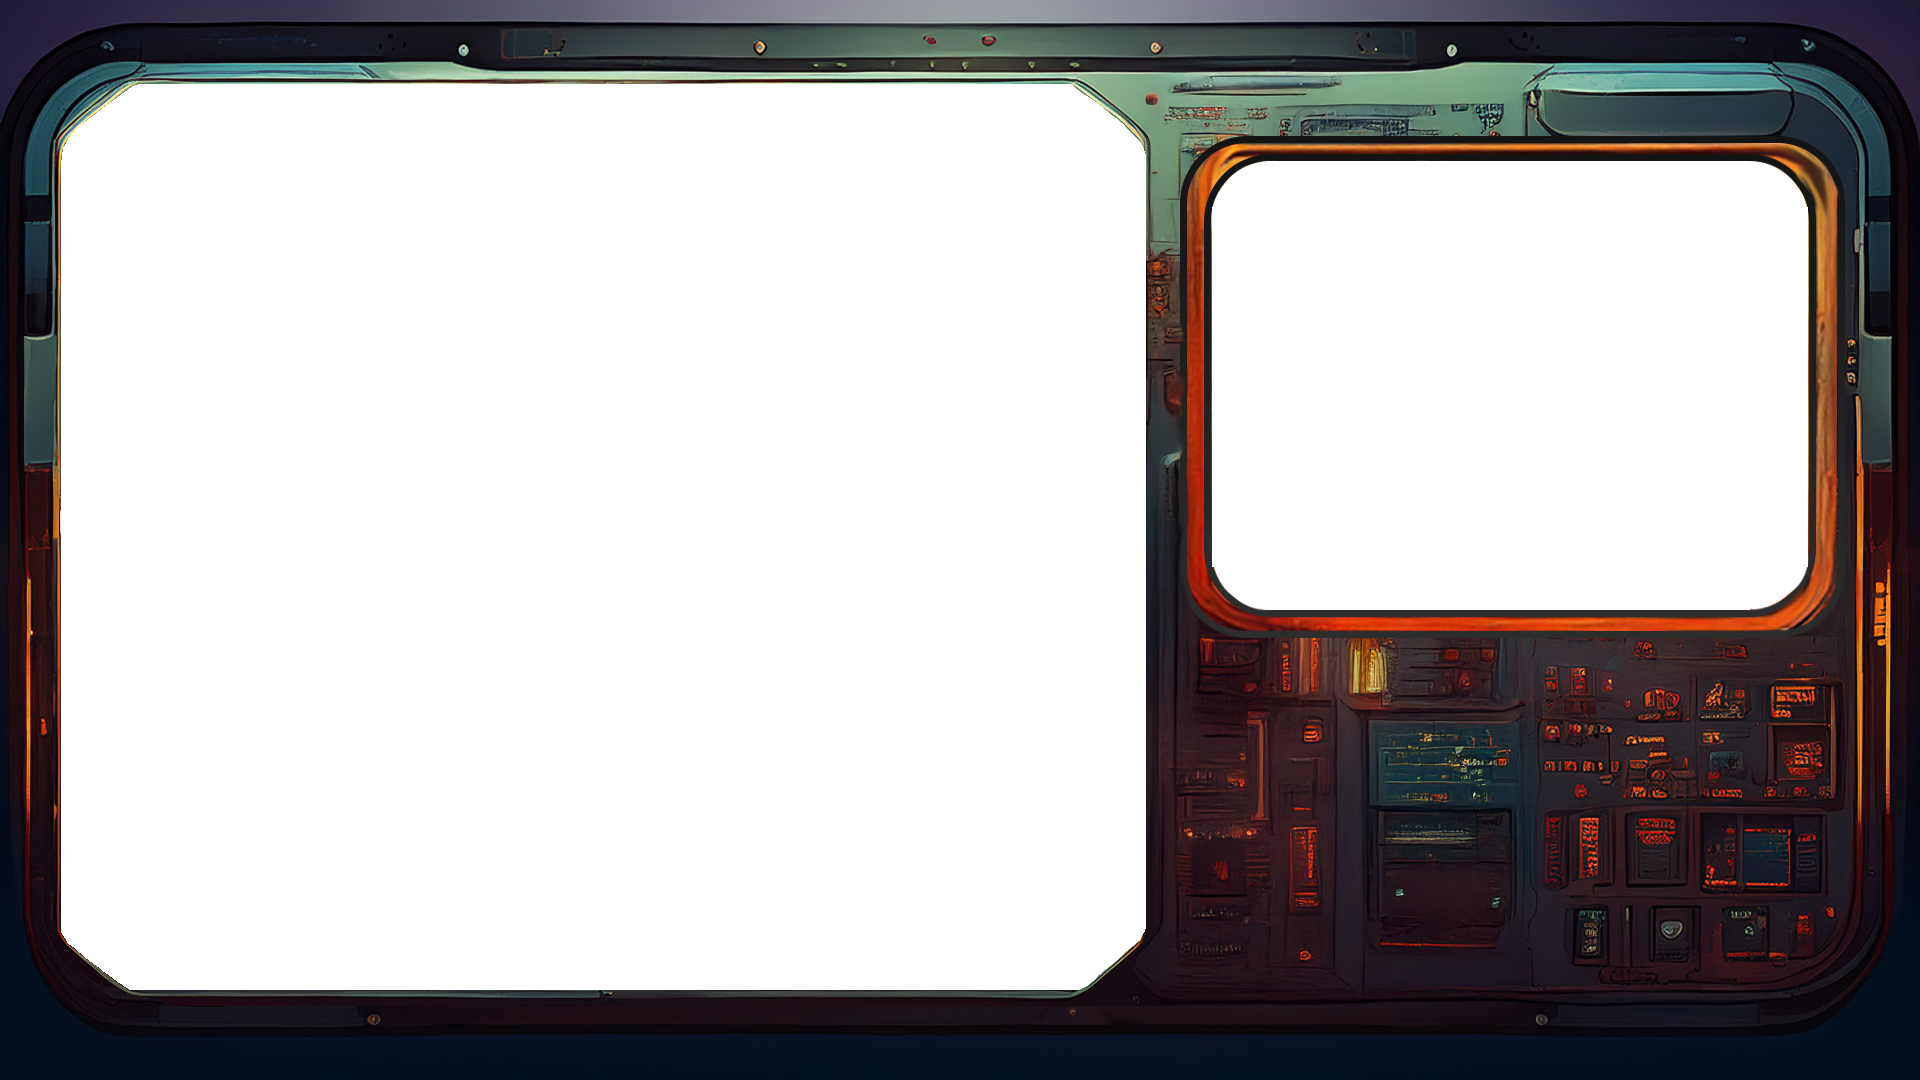
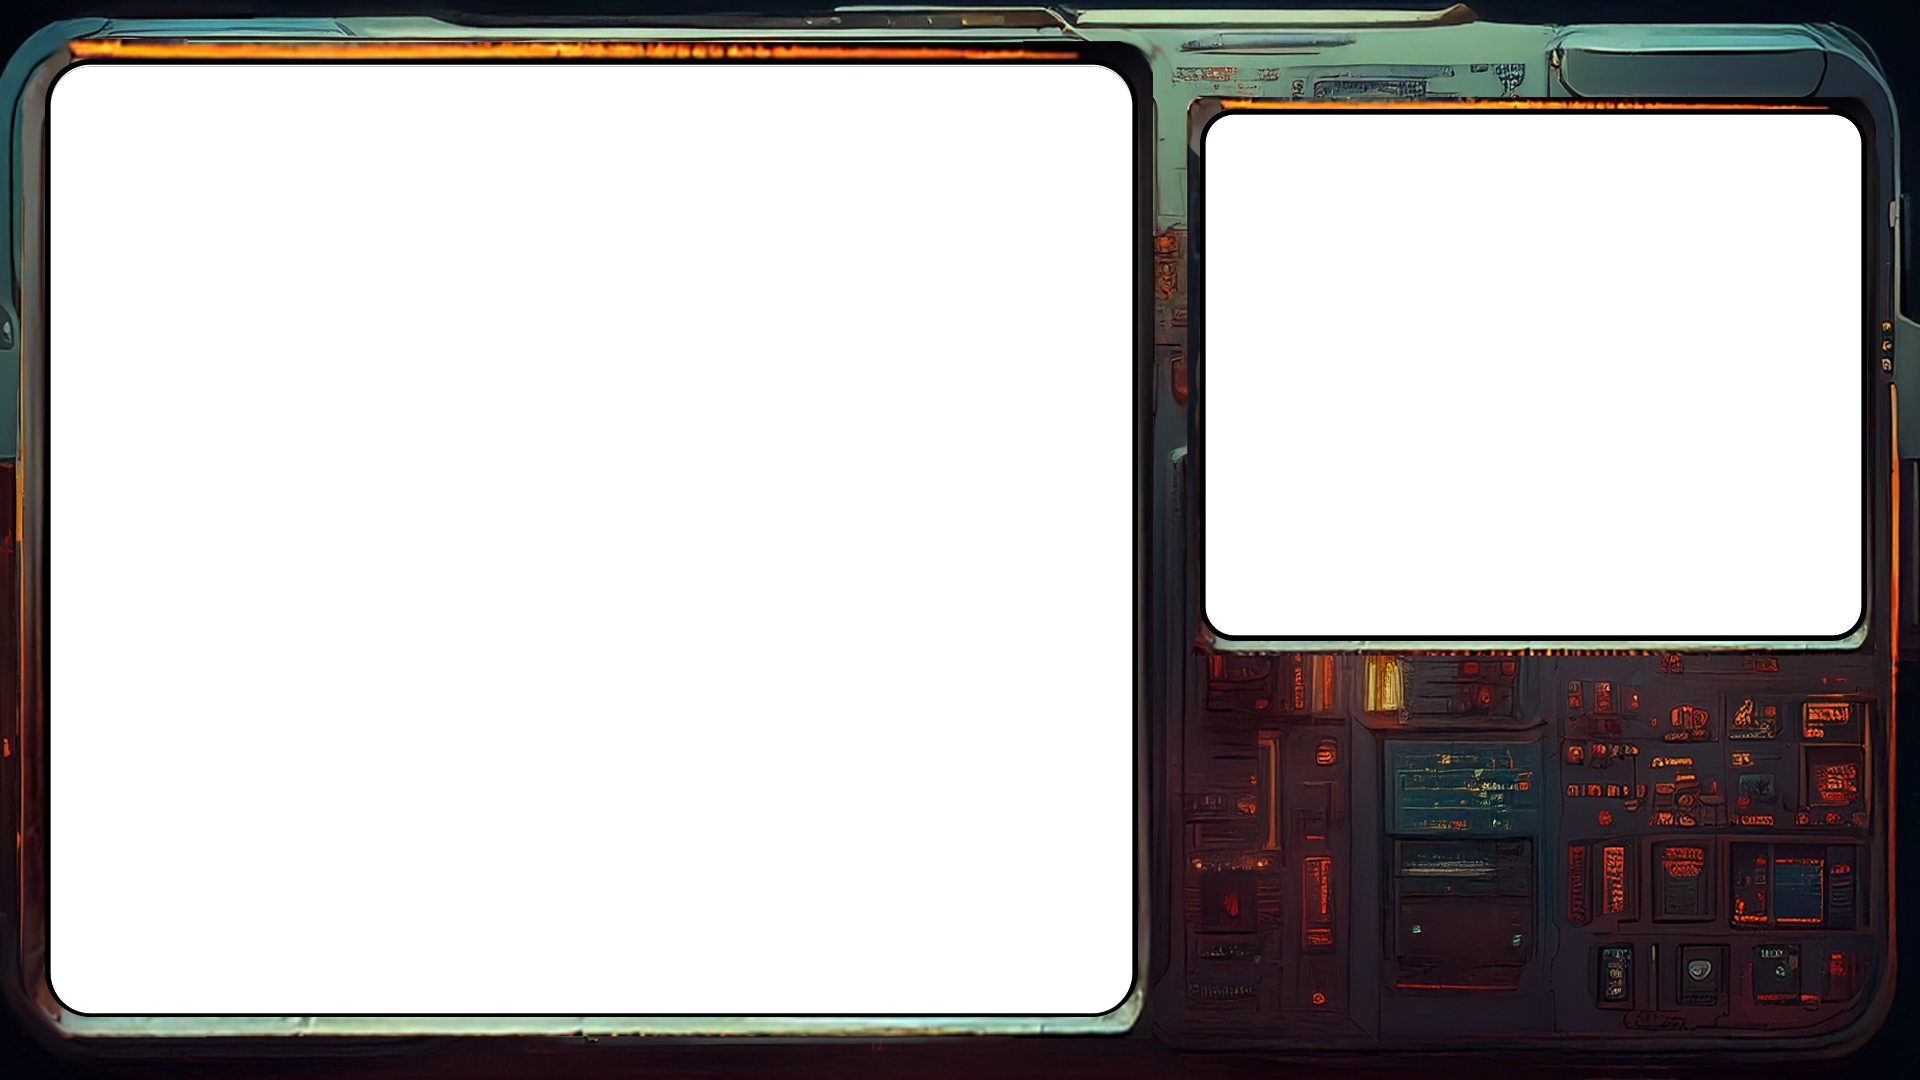
AIattackCamer Update

Changed region(s): [[0.0, 0.0, 1.0, 1.0], [0.7188, 0.8556, 0.75, 0.8861]]

diff --git a/Assets/Resources/Scripts/CameraRotator.cs b/Assets/Resources/Scripts/CameraRotator.cs
@@ -16,7 +16,7 @@ public class CameraRotator : MonoBehaviour
     public void StartRotation(Vector3 position)
     {
         transform.position = position; // Set the camera position
-        transform.rotation = Quaternion.Euler(0, 0, 0); // Reset rotation to default
+        transform.rotation = Quaternion.Euler(30, transform.rotation.y, 0); // Reset rotation to default
         isRotating = true; // Start rotating
     }
 

diff --git a/Assets/Resources/Scripts/AnimationController.cs b/Assets/Resources/Scripts/AnimationController.cs
@@ -45,7 +45,7 @@ public class AnimationController : MonoBehaviour
 
     public void PlayExplosion()
     {
-        currentPosition.y += 100;
+        currentPosition.y += 50;
         cameraRotatorFull.GetComponent<CameraRotator>().StartRotation(currentPosition);
         cameraRotatorFull.GetComponentInChildren<AudioSource>().clip = BombFalling;
         cameraRotatorFull.GetComponentInChildren<AudioSource>().Play();
